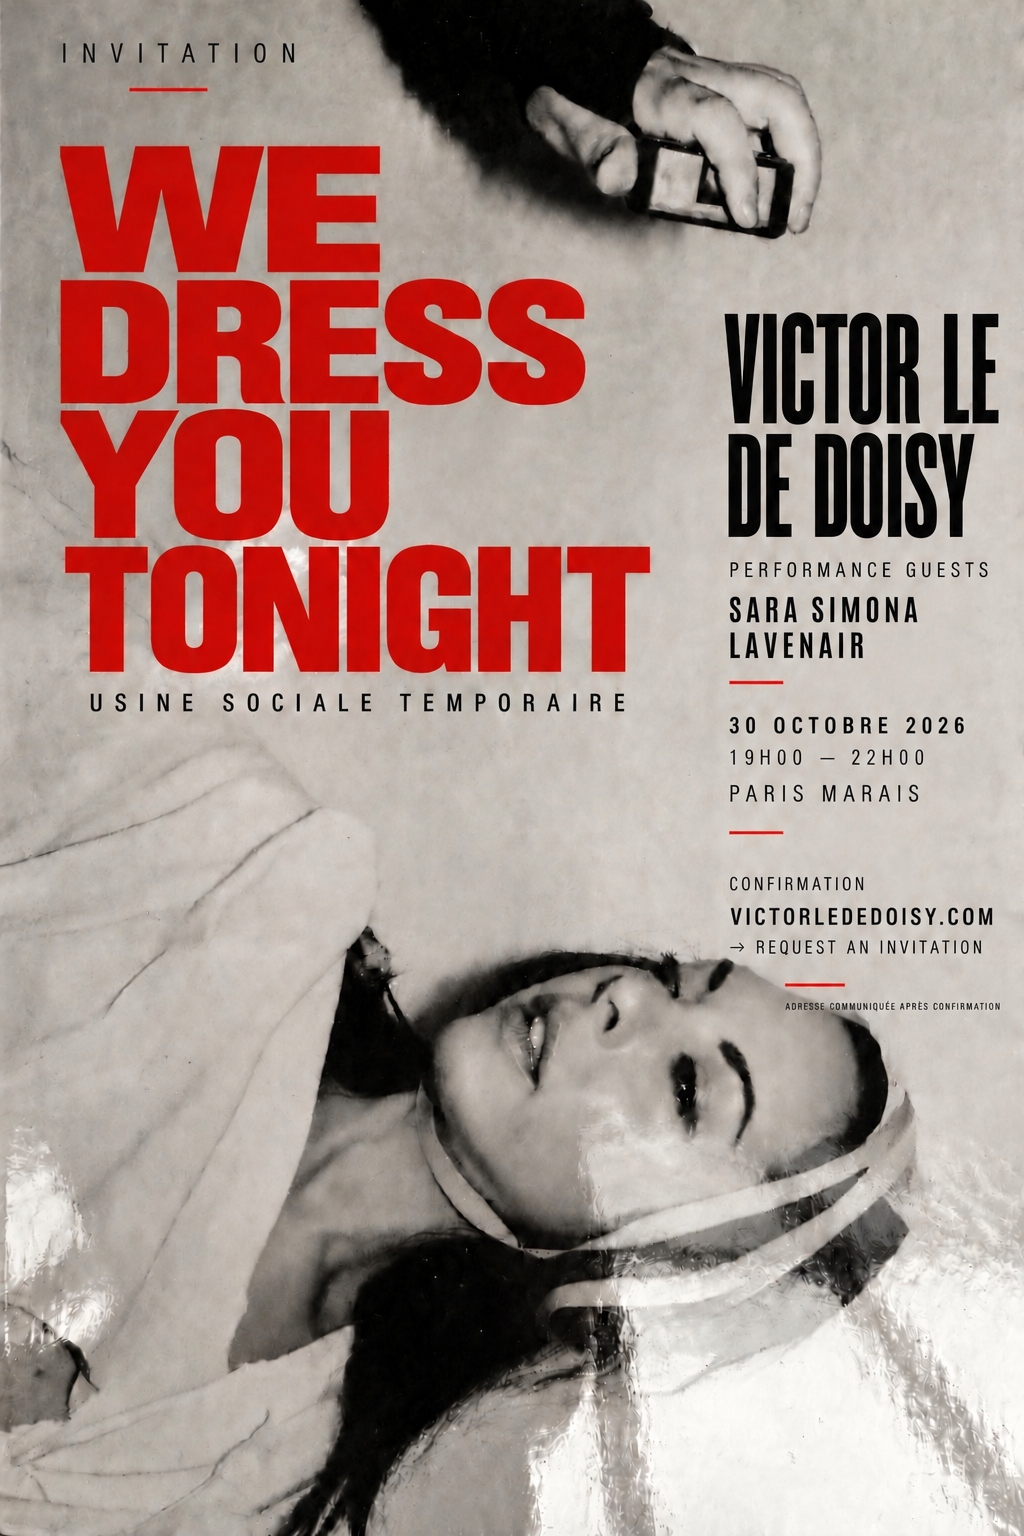
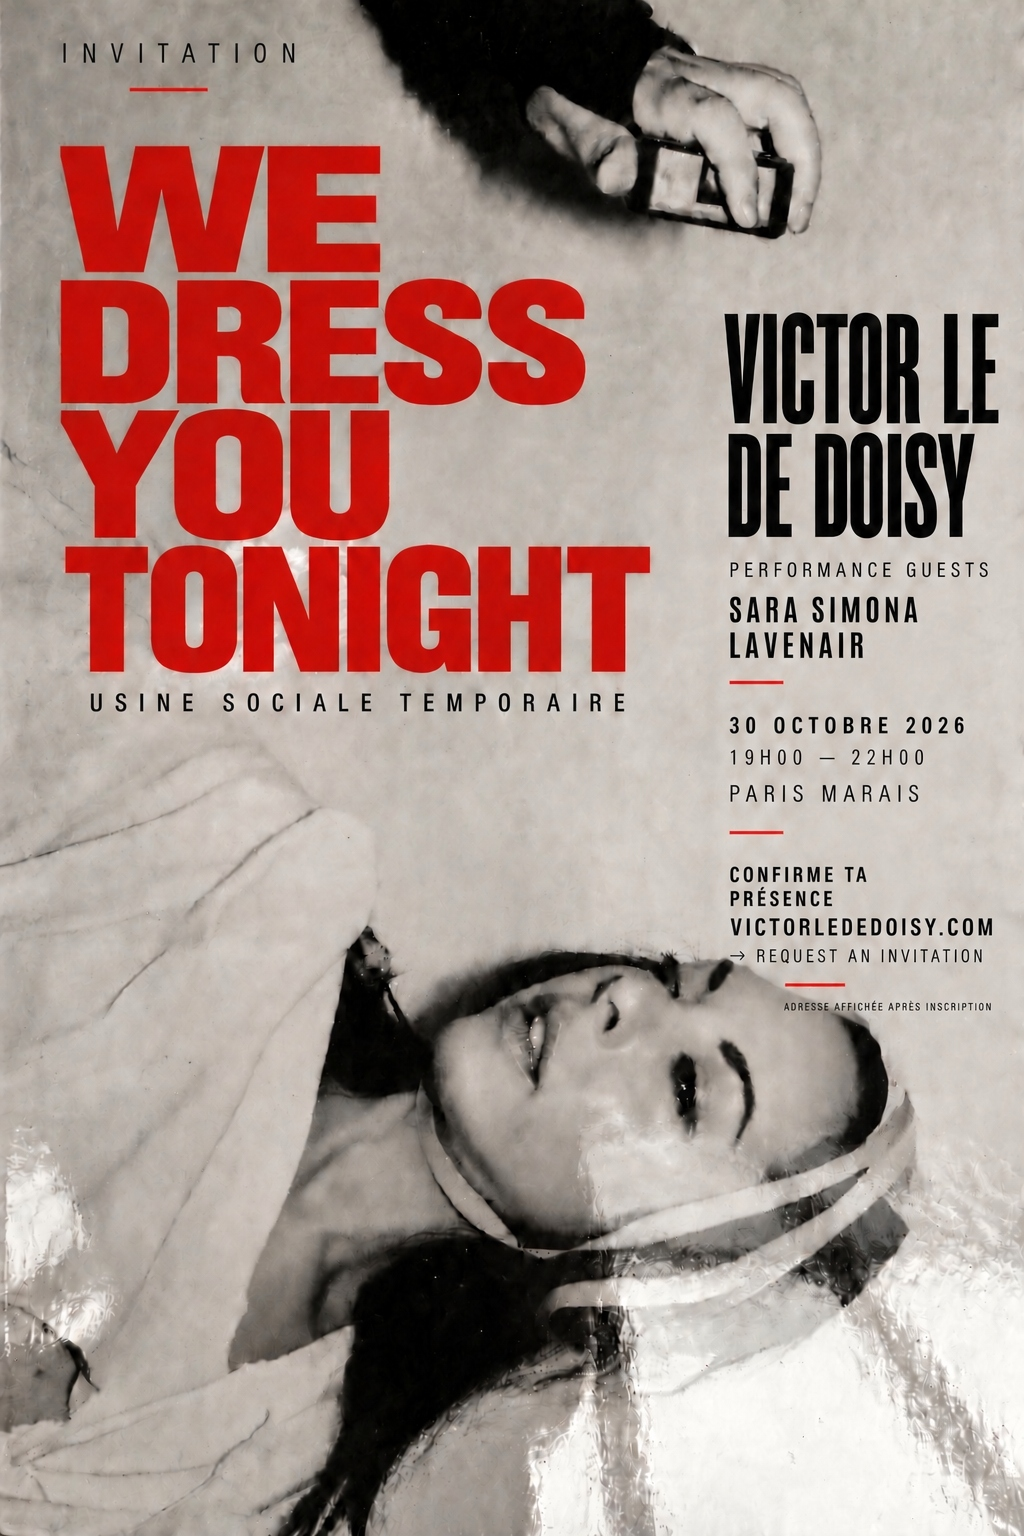
Align flyer wording with automatic attendance registration
Use CONFIRME TA PRÉSENCE and ADRESSE AFFICHÉE APRÈS INSCRIPTION. Refresh the homepage image URL to load the revised flyer.

Changed region(s): [[0.6875, 0.5625, 0.9688, 0.6562], [0.8125, 0.3438, 0.8438, 0.375]]

diff --git a/app/page.tsx b/app/page.tsx
@@ -37,7 +37,7 @@ export default function HomePage() {
           {hasWeDressFlyer && (
             <Link className="we-dress__flyer" style={{ display: "block" }} href="/we-dress-you-tonight" aria-label="Demander une invitation à WE DRESS YOU TONIGHT">
               {/* eslint-disable-next-line @next/next/no-img-element */}
-              <img src={`${process.env.GITHUB_PAGES === "true" ? "/victor-le-site" : ""}/media/we-dress-you-tonight/invitation-30-octobre-2026.jpg?v=performance-guests`} alt="Invitation WE DRESS YOU TONIGHT — 30 octobre 2026, 19 h à 22 h, Paris Marais" loading="lazy" />
+              <img src={`${process.env.GITHUB_PAGES === "true" ? "/victor-le-site" : ""}/media/we-dress-you-tonight/invitation-30-octobre-2026.jpg?v=presence-inscription`} alt="Invitation WE DRESS YOU TONIGHT — 30 octobre 2026, 19 h à 22 h, Paris Marais" loading="lazy" />
             </Link>
           )}
           <Link className="we-dress__register" href="/we-dress-you-tonight">REQUEST AN INVITATION ↗</Link>
